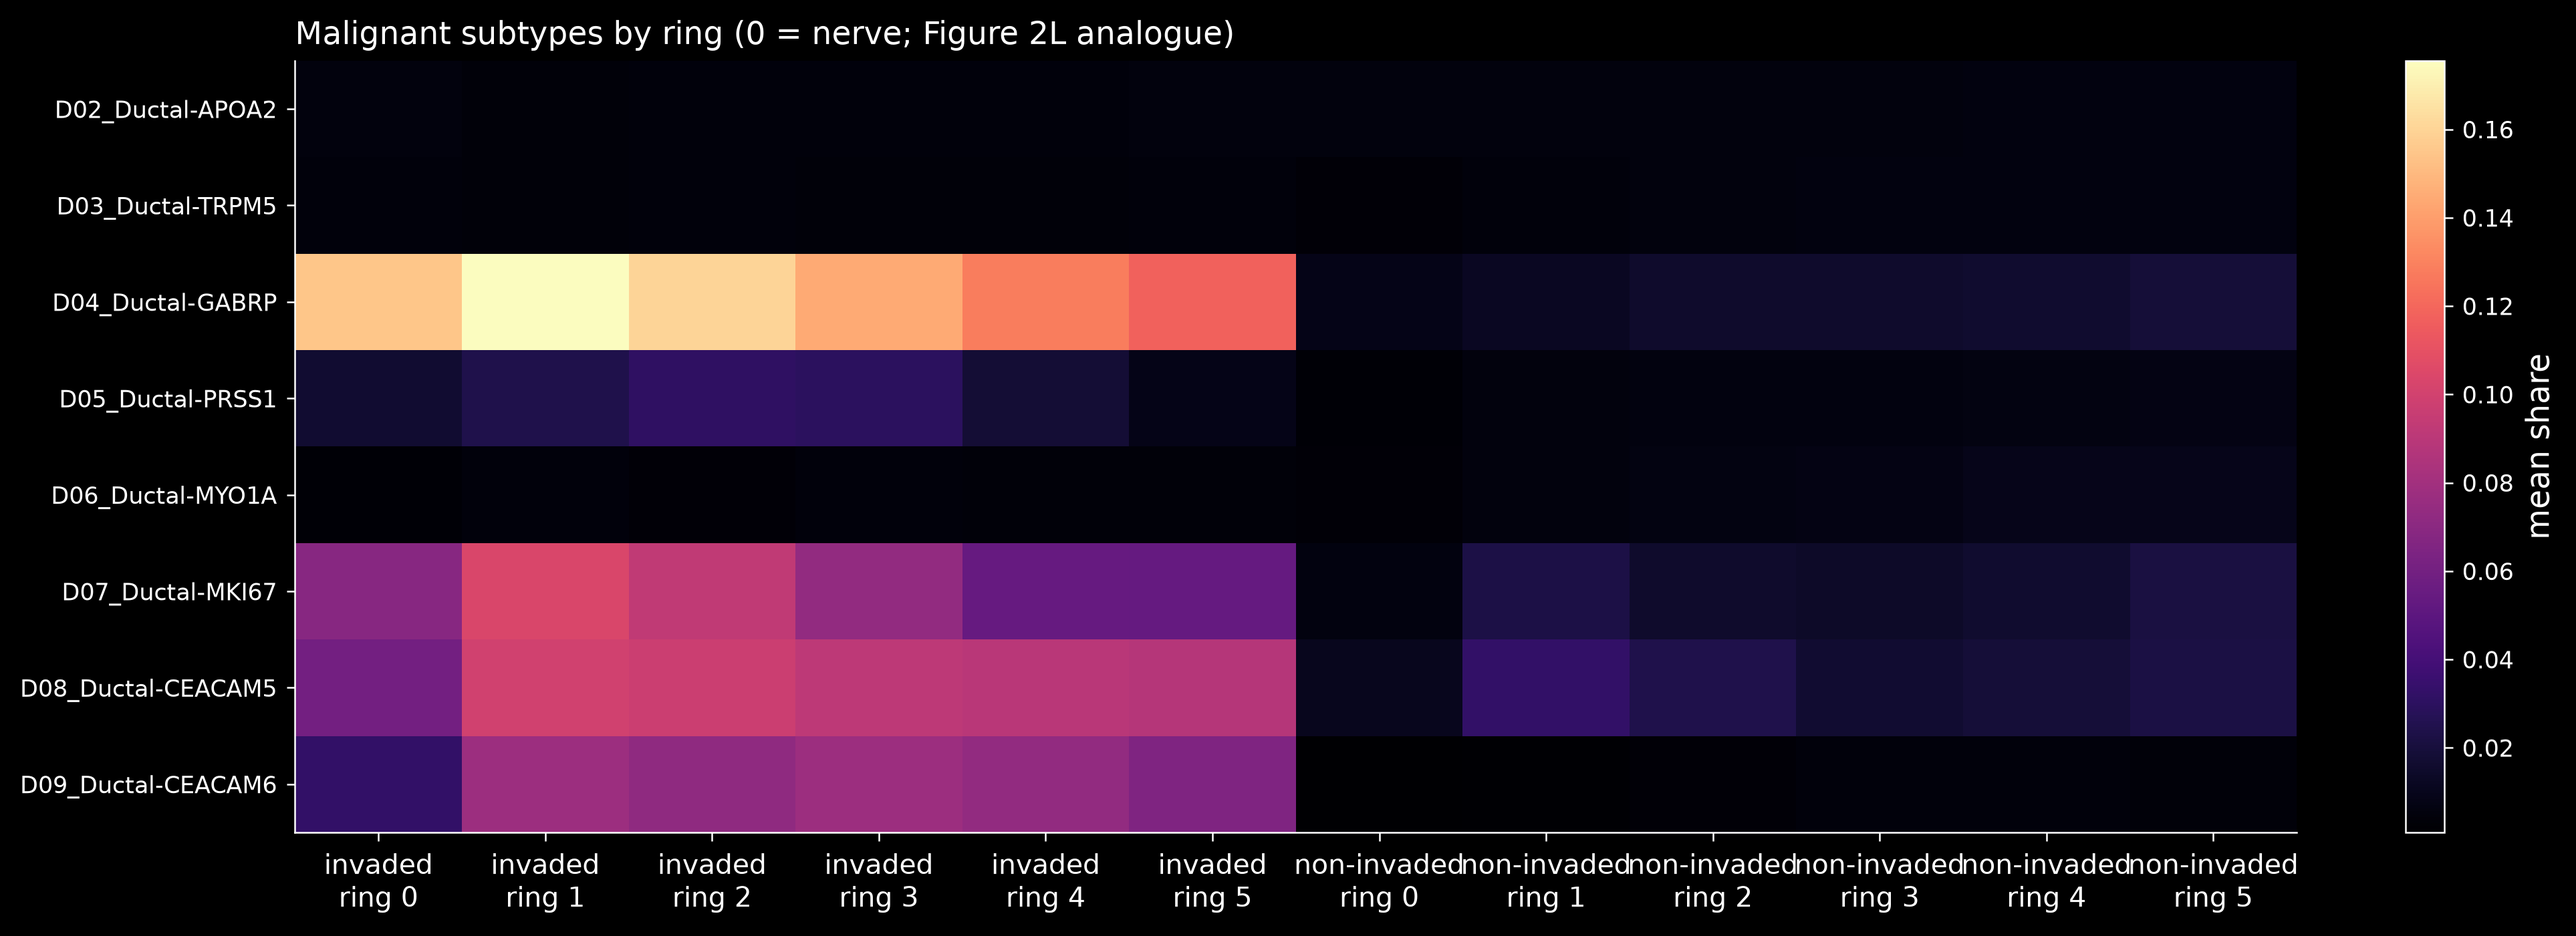
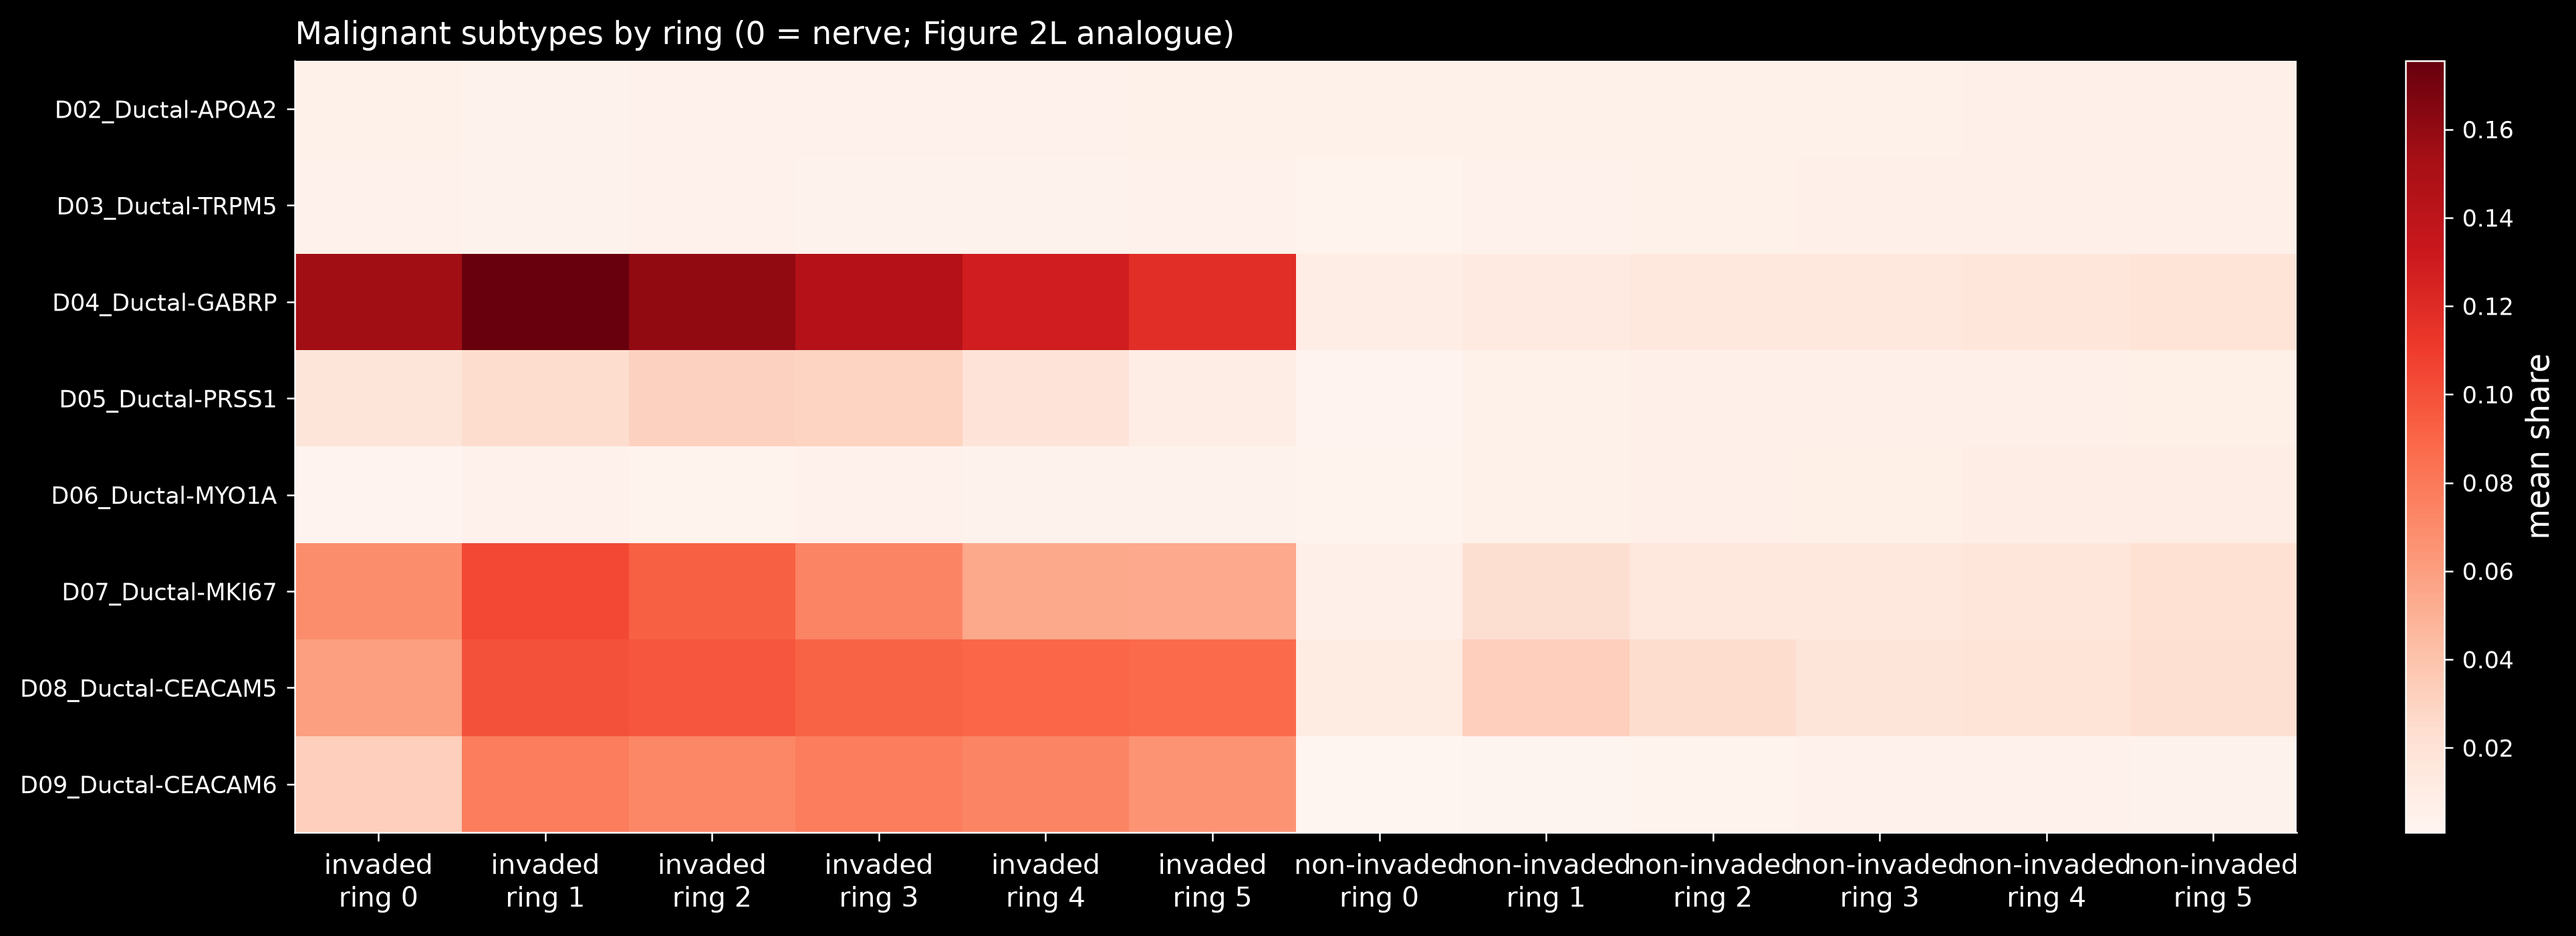
pdac03

diff --git a/src/libs/single_cell_pdac_lib.py b/src/libs/single_cell_pdac_lib.py
@@ -2187,21 +2187,30 @@ class SingleCellPDAC(RegionCacheMixin, SingleCell):
         self._save_figure(fig, fname, force=force, verbose=verbose)
         return fig
 
-    def plot_ring_heatmap(self, df_ring: pd.DataFrame, title: str = "", figsize=(14, 5), fname: Optional[str] = None,
+    def plot_ring_heatmap(self, df_ring: pd.DataFrame, title: str = "", figsize=(14, 5), 
+                          fname: Optional[str] = None, cmap="magma",
                           force: bool = False, verbose: bool = False):
-        """Heatmap of a calc_df_ring_profile table: features (rows) x (ring_status, ring) columns, mean share."""
-        M = df_ring.pivot_table(index="feature", columns=["ring_status", "ring"], values="mean") if len(df_ring) else pd.DataFrame()
-        if M.empty:
-            M = pd.DataFrame(np.zeros((1, 1)), index=["no nerves called"], columns=pd.MultiIndex.from_tuples([("", 0)]))
+        """
+        Heatmap of a calc_df_ring_profile table: features (rows) x (ring_status, ring) columns, mean share.
+        """
+        
+        df_ring2 = df_ring.pivot_table(index="feature", columns=["ring_status", "ring"], values="mean") if len(df_ring) else pd.DataFrame()
+        if df_ring2.empty:
+            df_ring2 = pd.DataFrame(np.zeros((1, 1)), index=["no nerves called"], columns=pd.MultiIndex.from_tuples([("", 0)]))
+        
         fig, ax = plt.subplots(figsize=figsize)
-        im = ax.imshow(M.values, cmap="magma", aspect="auto")
-        ax.set_xticks(range(M.shape[1]))
-        ax.set_xticklabels([f"{s}\nring {r}" for s, r in M.columns], fontsize=7)
-        ax.set_yticks(range(M.shape[0]))
-        ax.set_yticklabels(M.index)
+        
+        im = ax.imshow(df_ring2.values, cmap=cmap, aspect="auto")
+        ax.set_xticks(range(df_ring2.shape[1]))
+        ax.set_xticklabels([f"{s}\nring {r}" for s, r in df_ring2.columns], fontsize=7)
+        ax.set_yticks(range(df_ring2.shape[0]))
+        ax.set_yticklabels(df_ring2.index)
+
         fig.colorbar(im, ax=ax, fraction=0.03).set_label("mean share")
+
         ax.set_title(title)
         self.style_figure(fig, self.params["font_color"], self.params["bg_color"], self.params["fontsize_scale"])
+
         self._save_figure(fig, fname, force=force, verbose=verbose)
         return fig
 
@@ -2262,17 +2271,27 @@ class SingleCellPDAC(RegionCacheMixin, SingleCell):
     def plot_ring_profile(self, df_ring: pd.DataFrame, features: Sequence[str], ncols: int = 4, panel_size=(3.6, 3),
                           ylabel: str = "mean share", title: str = "", fname: Optional[str] = None,
                           font_color: Optional[str] = None, bg_color: Optional[str] = None,
-                          fontsize_scale: Optional[float] = None, force: bool = False, verbose: bool = False):
-        """One panel per feature: mean vs ring (5 -> 0 = nerve), invaded (dashed) vs non-invaded (solid)."""
+                          fontsize_scale: Optional[float] = None, figsize:tuple=(),
+                          title_y: Optional[float] = None, title_fontsize: Optional[float] = None,
+                          force: bool = False, verbose: bool = False):
+        """
+        One panel per feature: mean vs ring (5 -> 0 = nerve), invaded (dashed) vs non-invaded (solid).
+        title: figure title (suptitle). title_y: its height in figure fractions (1.0 = top edge of the figure, > 1
+        above the panels, e.g. 1.05; None = just above the highest panel title, never overlapping); title_fontsize:
+        None = matplotlib default (larger than the panel titles).
+        """
         font_color = self.get_param("font_color", font_color)
         bg_color = self.get_param("bg_color", bg_color)
         fontsize_scale = self.get_param("fontsize_scale", fontsize_scale)
         features = [f for f in features if f in set(df_ring.feature)]
+
         if not features:
             print("no nerve rings (no nerve called with the current thresholds): nothing to plot")
             return None
+        
         nrows = math.ceil(len(features) / ncols)
-        fig, axes = plt.subplots(nrows, ncols, figsize=(panel_size[0] * ncols, panel_size[1] * nrows), squeeze=False)
+        fig, axes = plt.subplots(nrows, ncols, figsize=figsize or (panel_size[0] * ncols, panel_size[1] * nrows), squeeze=False)
+        
         for ax in axes.ravel()[len(features):]:
             ax.axis("off")
         sty = {"invaded": dict(ls="--", color="#E8504C"), "non-invaded": dict(ls="-", color="#4C9BE8")}
@@ -2287,10 +2306,24 @@ class SingleCellPDAC(RegionCacheMixin, SingleCell):
             ax.set_xlabel("ring (0 = nerve)", fontsize=8)
             ax.set_ylabel(ylabel, fontsize=8)
         axes.ravel()[0].legend(frameon=False, fontsize=8)
-        if title:
-            fig.suptitle(title)
-        fig.tight_layout()
+        # style first (colours, fonts x fontsize_scale), then the layout: the spacing is computed for the final fonts
         self.style_figure(fig, font_color, bg_color, fontsize_scale, relayout=False)
+        
+        if title:
+            from matplotlib.font_manager import FontProperties
+            size = title_fontsize or FontProperties(size=plt.rcParams["figure.titlesize"]).get_size_in_points()
+            kw = dict(fontsize=size * (fontsize_scale or 1), color=font_color)
+        
+        fig.tight_layout()                                    # panels first (final fonts), then the title
+        if title and title_y is None:
+            # just above the highest panel title, measured on the drawn figure (never overlaps it)
+            renderer = fig.canvas.get_renderer()
+            tops = [ax.title.get_window_extent(renderer).y1 for ax in fig.axes if ax.get_title()]
+            top = max(tops) / fig.bbox.height if tops else 1.0
+            fig.suptitle(title, y=top + 0.01, va="bottom", **kw)
+        elif title:
+            fig.suptitle(title, y=title_y, **kw)              # as asked (va='top': title_y = its upper edge)
+        
         self._savefig(fig, fname, force=force, verbose=verbose)
         return fig
 
